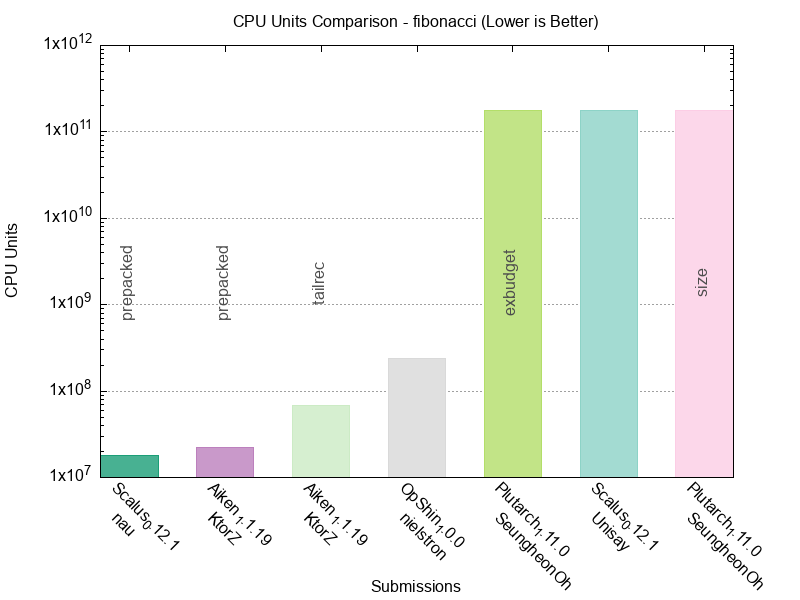
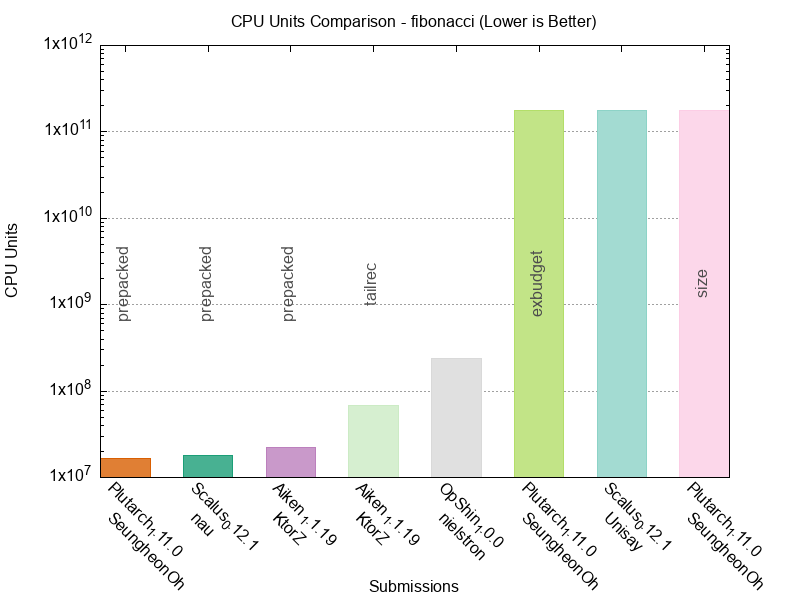
chore: regenerate reports with prepacked Plutarch fibonacci submission
Regenerate HTML reports to include the Plutarch_1.11.0_SeungheonOh_prepacked
submission that was added in commit ff1a421.

The submission was present in the repository but not visible in the
published reports because the reports hadn't been regenerated since
the submission was added.

Updated reports:
- fibonacci.html: Now includes prepacked Plutarch variant
- Updated fibonacci chart images with new submission data

diff --git a/report/index.html b/report/index.html
@@ -232,7 +232,7 @@
     </div>
 
     <div class="timestamp">
-        Generated on: 2025-10-21 22:14:27 CEST
+        Generated on: 2025-10-23 11:26:56 CEST
     </div>
     
     <!-- Benchmark Summary Table -->
@@ -479,7 +479,7 @@
                     </div>
                     <div class="count">
                         
-                            (7 submissions)
+                            (8 submissions)
                         
                     </div>
                 </div>
@@ -587,6 +587,28 @@
                                 </td>
                                 <td class="numeric script-value">81</td>
                                 <td class="numeric term-value">73</td>
+                            </tr>
+                            
+                            <tr data-cpu="16459951" data-memory="30485" data-script="118" data-term="28">
+                                <td>Plutarch</td>
+                                <td>1.11.0</td>
+                                <td>prepacked</td>
+                                <td>SeungheonOh</td>
+                                <td>2025-10-21</td>
+                                <td class="numeric">
+                                    <span class="tooltip">
+                                        <span class="cpu-value">16.46M</span>
+                                        <span class="tooltiptext">16459951</span>
+                                    </span>
+                                </td>
+                                <td class="numeric">
+                                    <span class="tooltip">
+                                        <span class="memory-value">30.48K</span>
+                                        <span class="tooltiptext">30485</span>
+                                    </span>
+                                </td>
+                                <td class="numeric script-value">118</td>
+                                <td class="numeric term-value">28</td>
                             </tr>
                             
                             <tr data-cpu="175016233630" data-memory="641939062" data-script="47" data-term="41">

diff --git a/report/benchmarks/fibonacci.html b/report/benchmarks/fibonacci.html
@@ -175,7 +175,7 @@
     </div>
 
     <div class="timestamp">
-        Generated on: 2025-10-21 22:14:14 CEST
+        Generated on: 2025-10-23 11:26:50 CEST
     </div>
     
     <div class="benchmark-section">
@@ -219,6 +219,19 @@
                 </tr>
             </thead>
             <tbody>
+                <tr>
+                    <td>2025-10-21T02:22:26Z</td>
+                    <td>Plutarch</td>
+                    <td>1.11.0</td>
+                    <td>prepacked</td>
+                    <td>SeungheonOh</td>
+                    <td class="numeric">16459951</td>
+                    <td class="numeric">30485</td>
+                    <td class="numeric">118</td>
+                    <td class="numeric">28</td>
+                    <td><a href="https://github.com/IntersectMBO/UPLC-CAPE/blob/main/submissions/fibonacci/Plutarch_1.11.0_SeungheonOh_prepacked/source/README.md" target="_blank" rel="noopener">📁</a></td>
+                    <td><a href="https://github.com/IntersectMBO/UPLC-CAPE/blob/main/submissions/fibonacci/Plutarch_1.11.0_SeungheonOh_prepacked/fibonacci.uplc" target="_blank" rel="noopener">🔗</a></td>
+                </tr>
                 <tr>
                     <td>2025-10-21T20:12:40Z</td>
                     <td>Scalus</td>

diff --git a/report/benchmarks/factorial.html b/report/benchmarks/factorial.html
@@ -175,7 +175,7 @@
     </div>
 
     <div class="timestamp">
-        Generated on: 2025-10-21 22:14:03 CEST
+        Generated on: 2025-10-23 11:26:44 CEST
     </div>
     
     <div class="benchmark-section">

diff --git a/report/benchmarks/factorial_naive_recursion.html b/report/benchmarks/factorial_naive_recursion.html
@@ -175,7 +175,7 @@
     </div>
 
     <div class="timestamp">
-        Generated on: 2025-10-21 22:14:08 CEST
+        Generated on: 2025-10-23 11:26:47 CEST
     </div>
     
     <div class="benchmark-section">

diff --git a/report/benchmarks/fibonacci_naive_recursion.html b/report/benchmarks/fibonacci_naive_recursion.html
@@ -175,7 +175,7 @@
     </div>
 
     <div class="timestamp">
-        Generated on: 2025-10-21 22:14:19 CEST
+        Generated on: 2025-10-23 11:26:53 CEST
     </div>
     
     <div class="benchmark-section">

diff --git a/report/benchmarks/two-party-escrow.html b/report/benchmarks/two-party-escrow.html
@@ -175,7 +175,7 @@
     </div>
 
     <div class="timestamp">
-        Generated on: 2025-10-21 22:14:24 CEST
+        Generated on: 2025-10-23 11:26:55 CEST
     </div>
     
     <div class="benchmark-section">
